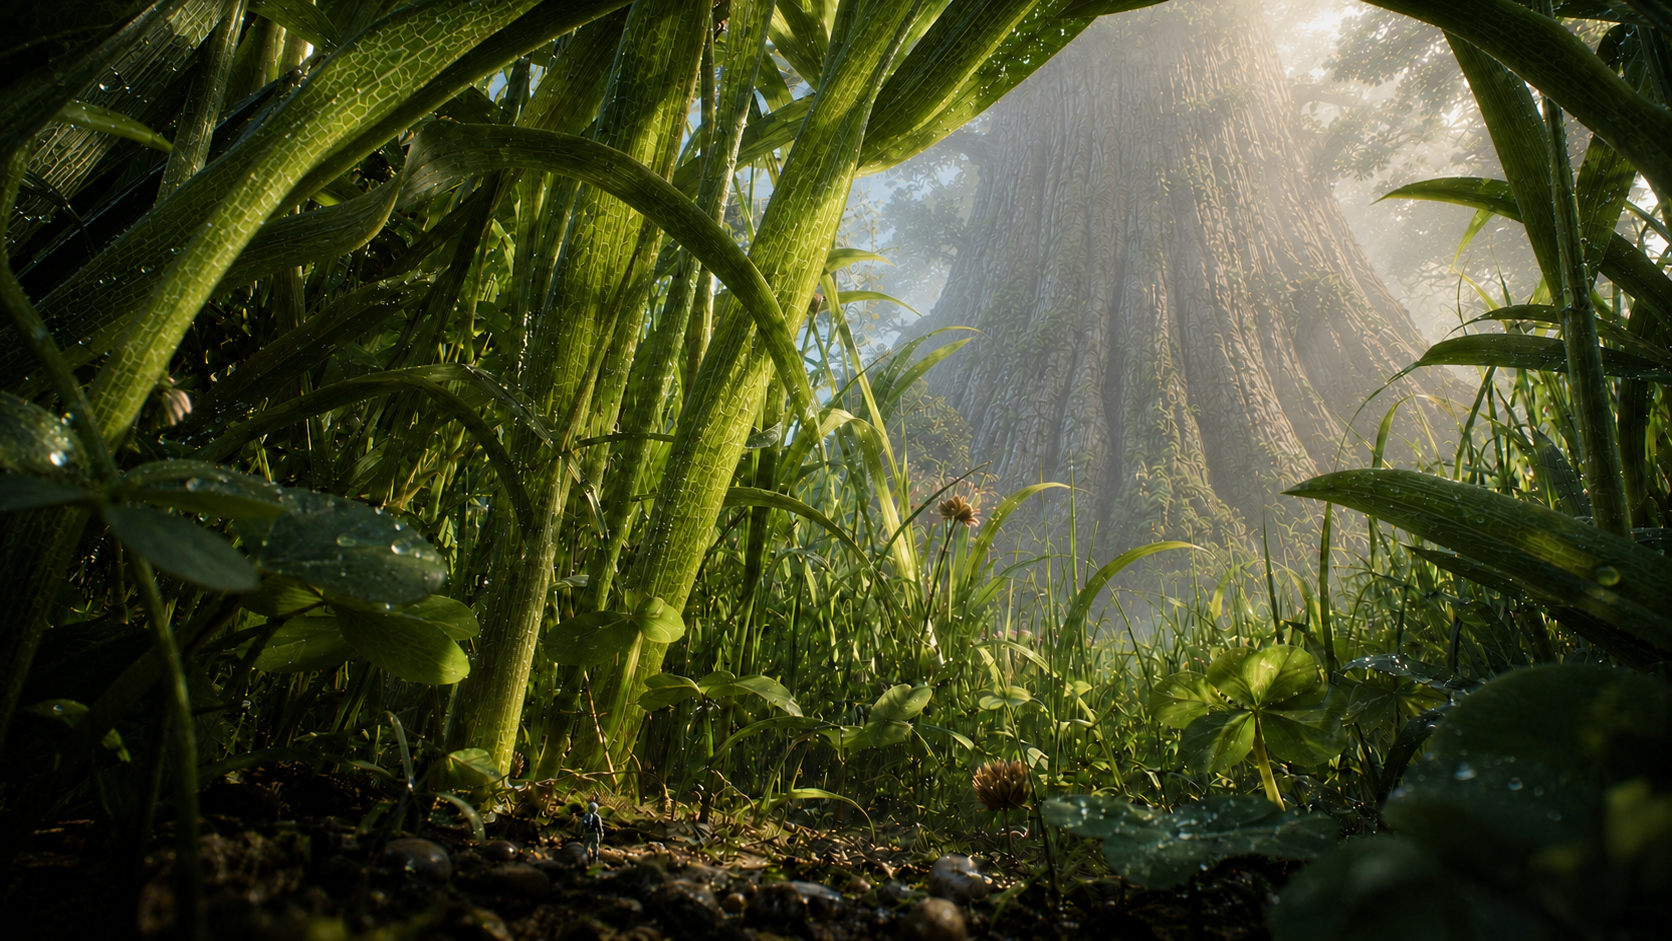
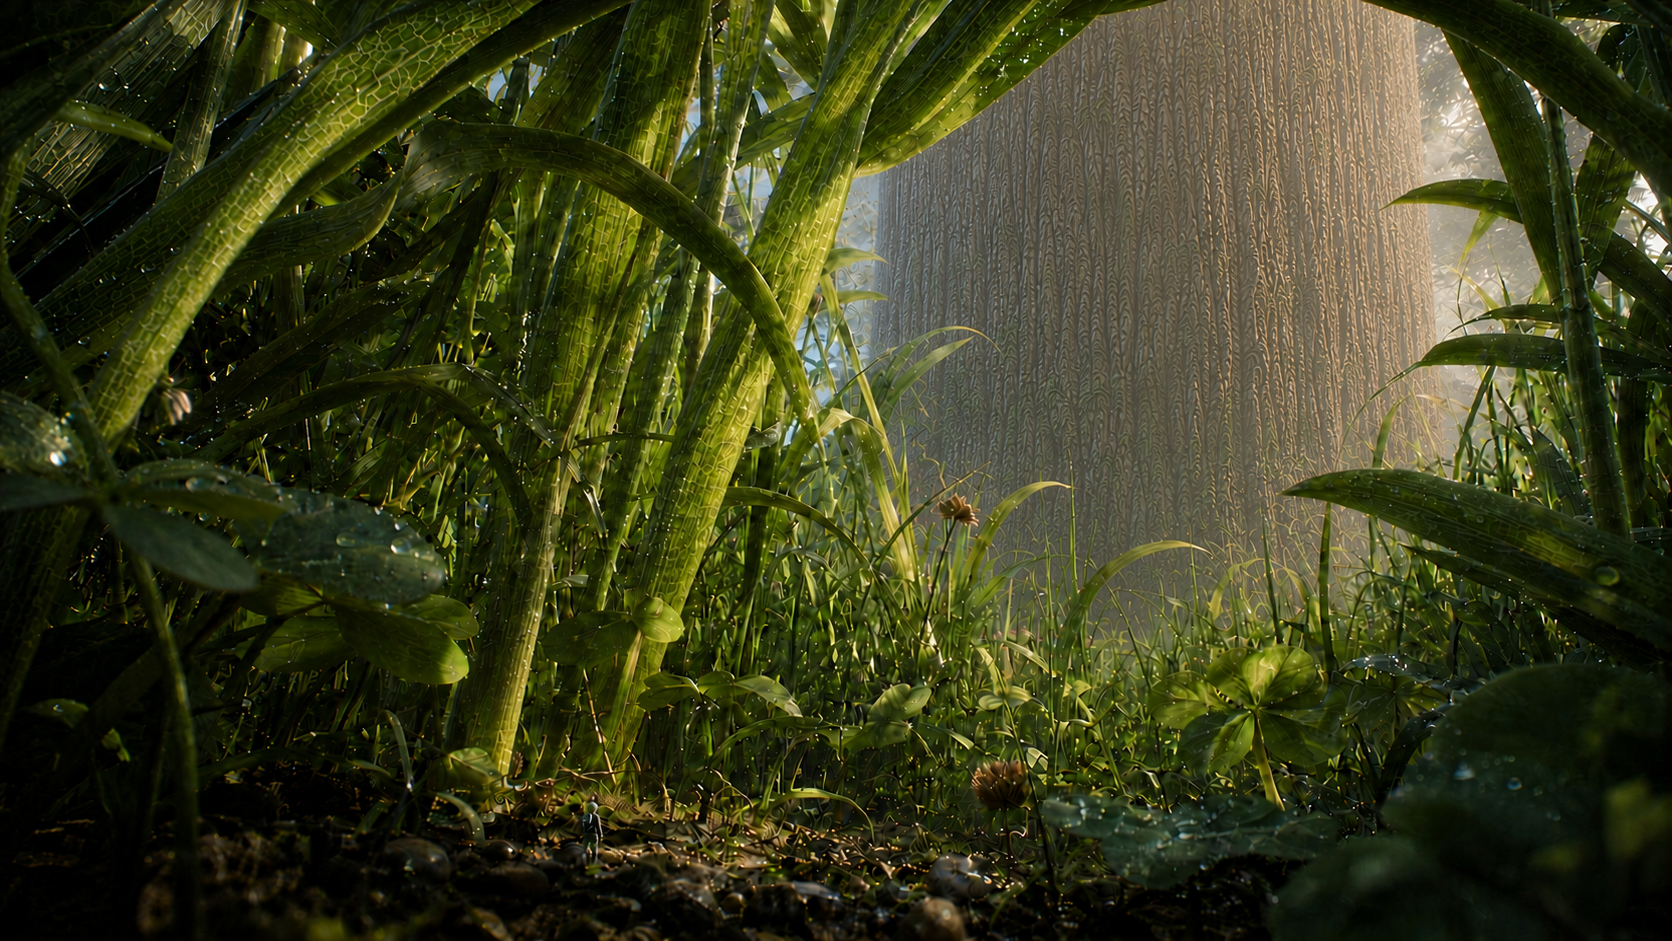
add acidity to roadmap, update hiOx and hydrophibicity visor images, fix minor consistency issues.

diff --git a/public/walkthrough/index.html b/public/walkthrough/index.html
@@ -710,8 +710,7 @@
                     <ul>
                       <li>Also obtained by scaning elements in the environment</li>
                       <li>While scanning, AI comments: <span class="ai">"Based on currently available data, I estimate
-                          the probability of this structure existing in the universe at 8 times 10 to the negative
-                          43."</span></li>
+                          the probability of this structure existing in the universe at 1 in 100 billion."</span></li>
                     </ul>
                   <li>Optional task item: encase the entire thing in another vesicle</li>
                   <ul>
@@ -1002,9 +1001,11 @@
                     data-open-task="task-dna">DNA</a> task</li>
                 <li>Discovering and havesting iron in this zone will unlock the ability to upgrade the power output to
                   photosystem I, and to build basic mitochondria-like structures</li>
-                <li>While harvesting iron for the first time, AI will comment: <span class="ai">" The Iron–Sulfur World hypothesis argues that life began
+                <li>While harvesting iron for the first time, AI will comment: <span class="ai">" The Iron-Sulfur World hypothesis argues that life began
                     with self-sustaining chemical cycles on iron-sulfur minerals rather than genetic material."</span>
                 </li>
+                <li>Scanning structures deeper in the High Oxygen Zone will trigger the <a href="#task-cytoskeleton"
+                      data-open-task="task-cytoskeleton">Cytoskeleton</a> task</li>
                 <li>When they player upgrades their energy production pipeline to include photosystem I, the <a
                     href="#task-pathogenesis" data-open-task="task-pathogenesis">Pathogenesis</a> task is triggered</li>
                 <li>Aquisition of the DNA Synthase sequence triggers the <a href="#task-mitosis"
@@ -1045,8 +1046,6 @@
                   <li>With the DNA system in place and making antioxidants, you can now explore the High Oxygen Zone
                     freely
                   <li>AI suggests expanding power generation, requiring iron</li>
-                  <li>Scanning structures deeper in the High Oxygen Zone will trigger the <a href="#task-cytoskeleton"
-                      data-open-task="task-cytoskeleton">Cytoskeleton</a> task</li>
                 </ol>
                 </p>
                 <p class="duration">~5 min.</p>
@@ -1161,8 +1160,8 @@
                 <p class="duration">~15 min.</p>
                 <span><img src="/walkthrough/images/cytoskeleton.png"
                     alt="Player is scanning proteins inside of a dead leaf, explicitly showing how the proteins are used."></span>
-                <p><i>Player is scanning proteins inside of a dead leaf, explicitly showing how the proteins are
-                    used.</i>
+                <p class="zone-caption">Player is scanning proteins inside of a dead leaf, explicitly showing how the proteins are
+                    used.
                 </p>
               </div>
             </details>
@@ -1343,8 +1342,7 @@
                 <li>Completing this task activates the <a href="#task-differentiation"
                     data-open-task="task-differentiation">Differentiation</a> task.</li>
                 <li>You can optionally add Lysosomes, giving a major efficiency boost</li>
-                <li>To speed growth rate further, you can also choose to pursue the <a href="#task-phagosome"
-                    data-open-task="phagosome">Phagosome</a> task</li>
+                <li>To speed growth rate further, you can also choose to upgrade your Membrane Recycling Center with PAMP receptors to give them Phagosome capabilities, if you have not already.</li>
               </ul>
             </div>
           </div>

diff --git a/roadmap-dev/src/roadmapData.js b/roadmap-dev/src/roadmapData.js
@@ -66,6 +66,17 @@ export const roadmapItems = [
     details: 'The buildling blocks all exist in the game, and enzymes are a fundamental concepts, but the concept of enzymes does not explicitly exist (it does implicitly). There are many places in which this idea could be implemented.',
   },
   {
+    id: 'ph',
+    title: 'Acidity',
+    category: 'Cell Biology Concepts',
+    column: 'biology',
+    status: 'exploring',
+    communitySignal: 'Core',
+    dependsOn: [],
+    description: 'Acidity might be another dimension of control in the game.',
+    details: 'As in real cells, a pH gradient can be established in a cell to control the folding of its proteins. Not too difficult to implement and big impact in terms of both game mechanics and educational value, but needs to be done thoughtfully.',
+  },
+  {
     id: 'community-sandbox',
     title: 'Community Sandbox',
     category: 'Game Modes',

diff --git a/public/roadmap/index.html b/public/roadmap/index.html
@@ -5,7 +5,7 @@
     <meta name="viewport" content="width=device-width, initial-scale=1.0" />
     <title>Atlas Vegrandis Roadmap</title>
     <link rel="icon" type="image/png" href="./favicon.png">
-    <script type="module" crossorigin src="/roadmap/assets/index-00PcPSMl.js"></script>
+    <script type="module" crossorigin src="/roadmap/assets/index-Bq_99ZMs.js"></script>
     <link rel="stylesheet" crossorigin href="/roadmap/assets/index-D4CUcoP9.css">
   </head>
   <body>